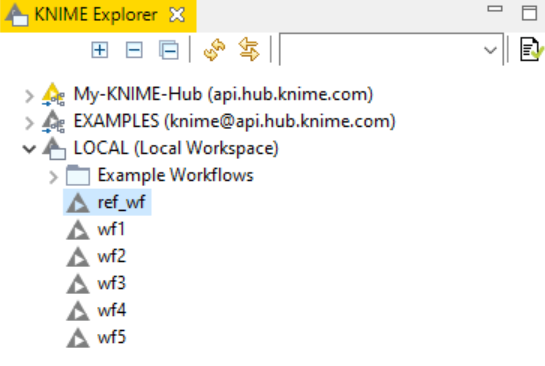
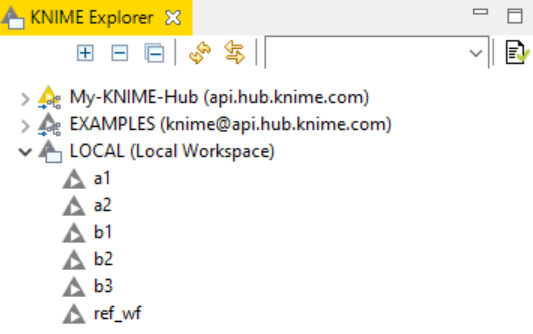
changes

Changed region(s): [[0.0, 0.0, 1.0, 0.988]]

diff --git a/workflowgrader.py b/workflowgrader.py
@@ -3,7 +3,6 @@ import pandas as pd
 import numpy as np
 import os
 import argparse
-# from datetime import datetime
 from utils import workflowgrader, display_process_start, display_process_output, current_datetime
 import time
 import sys, traceback, logging
@@ -13,11 +12,7 @@ def parse_args():
     parser = argparse.ArgumentParser(description='Grades KNIME workflows.')
     parser.add_argument('workspace', help='KNIME workspace with the workflows to be graded.')
     parser.add_argument('ref_workflow', help='Name of the reference workflow to be used.')
-    # parser.add_argument('-c','--classes', default=None, nargs='*', help='classes to be graded in the workspace')
     parser.add_argument('--exec-path', default=None, help='Not required unless KNIME is installed in non-standard location.')
-    # parser.add_argument('--workspace',required=True, help='KNIME workspace with the workflows to be graded.')
-    # parser.add_argument('--ref-workflow',required=True, help='Name of the reference workflow to be used.')
-    # parser.add_argument('--save-name',default=None ,help='Name of grading results to be saved as.')
     parser.add_argument('--save-dir',default=None, help='Directory to save the grading results to. Saved to workspace if not provided.')
    
     args = parser.parse_args()
@@ -40,7 +35,7 @@ def detect_workflowset(workspace):
                 workflowsets.append(i)
     if not workflowsets:
         display_process_output('No workflowsets detected. Processing workflows in workspace {}.'.format(os.path.basename(workspace)))
-        # print('    -> No workflowsets detected.')
+
     return workflowsets
 
 def main():
@@ -52,18 +47,18 @@ def main():
 
     logging.basicConfig(filename=os.path.join(args.save_dir,os.path.basename(args.workspace)+'.log'), filemode='w', format='%(name)s - %(levelname)s - %(message)s')
 
-    # print('\n')
-    # print('  KNIME WORKSPACE   : {}'.format(args.workspace))
-    # print('  REFERENCE WORKFLOW: {}'.format(args.ref_workflow))
-    
     display_process_start('Detecting workflowsets from {}...'.format(args.workspace))
 
     workflowsets = detect_workflowset(args.workspace)
 
+    # if not workflowsets:
+    #     workflowsets = [os.path.basename(args.workspace)]
+  
     display_process_start('Reading reference workflow...')
     wfg = workflowgrader(args.workspace,args.ref_workflow, args.exec_path, workflowsets)
     display_process_output('reading of {} is completed.'.format(args.ref_workflow))
-    
+
+      
     for wfs in wfg.workflowsets:
         display_process_start('Processing {}...'.format(wfs.upper()))
         wfg.extract_workflow_data(wfs)

diff --git a/utils.py b/utils.py
@@ -119,8 +119,9 @@ class workflowgrader():
         # workflow to be used as a reference for grading
         self.ref_workflow = ref_workflow
         # fullpaths of workflowsets to iterate, if None, fullpath to workspace is provided
-        self.fullpath_workflowsets = [workspace] if not workflowsets else [os.path.join(workspace,i) for i in workflowsets]
-       
+        # self.fullpath_workflowsets = [workspace] if not workflowsets else [os.path.join(workspace,i) for i in workflowsets]
+        self.fullpath_workflowsets = [os.path.join(workspace,i) for i in workflowsets]
+
         # assume that workflows are named using student ids
         self.student_ids = {}
 
@@ -128,7 +129,8 @@ class workflowgrader():
         self.exec_path = exec_path
 
         # list of fullpaths to folders with workflows
-        self.workflowsets = workflowsets
+        # self.workflowsets = workflowsets
+        self.workflowsets = [os.path.basename(workspace)] if not workflowsets else workflowsets
 
         # reference based on reference workflow
         self.ref_output, _ = collect_workflow_outputs(os.path.join(workspace,ref_workflow))
@@ -179,9 +181,14 @@ class workflowgrader():
         sub_outputs = []
         data_paths = []
         student_ids = []
-        fullpath_workflowset = os.path.join(self.workspace,workflowset)
-        
-        progress = tqdm(glob.glob(os.path.join(fullpath_workflowset,'[0-9]*')), ascii=' >=')
+        # fullpath_workflowset = os.path.join(self.workspace,workflowset)
+
+        if (len(self.workflowsets) == 1) and os.path.basename(self.workspace) == self.workflowsets[0]:
+            fullpath_workflowset = self.workspace
+        else:
+            fullpath_workflowset = os.path.join(self.workspace,workflowset)
+
+        progress = tqdm(glob.glob(os.path.join(fullpath_workflowset,'[ab0-9]*')), ascii=' >=')
         for wfp in progress:
             progress.set_description('    Extracting data from {}'.format(os.path.basename(wfp)+'.knwf'))
             student_ids.append(os.path.basename(wfp))
